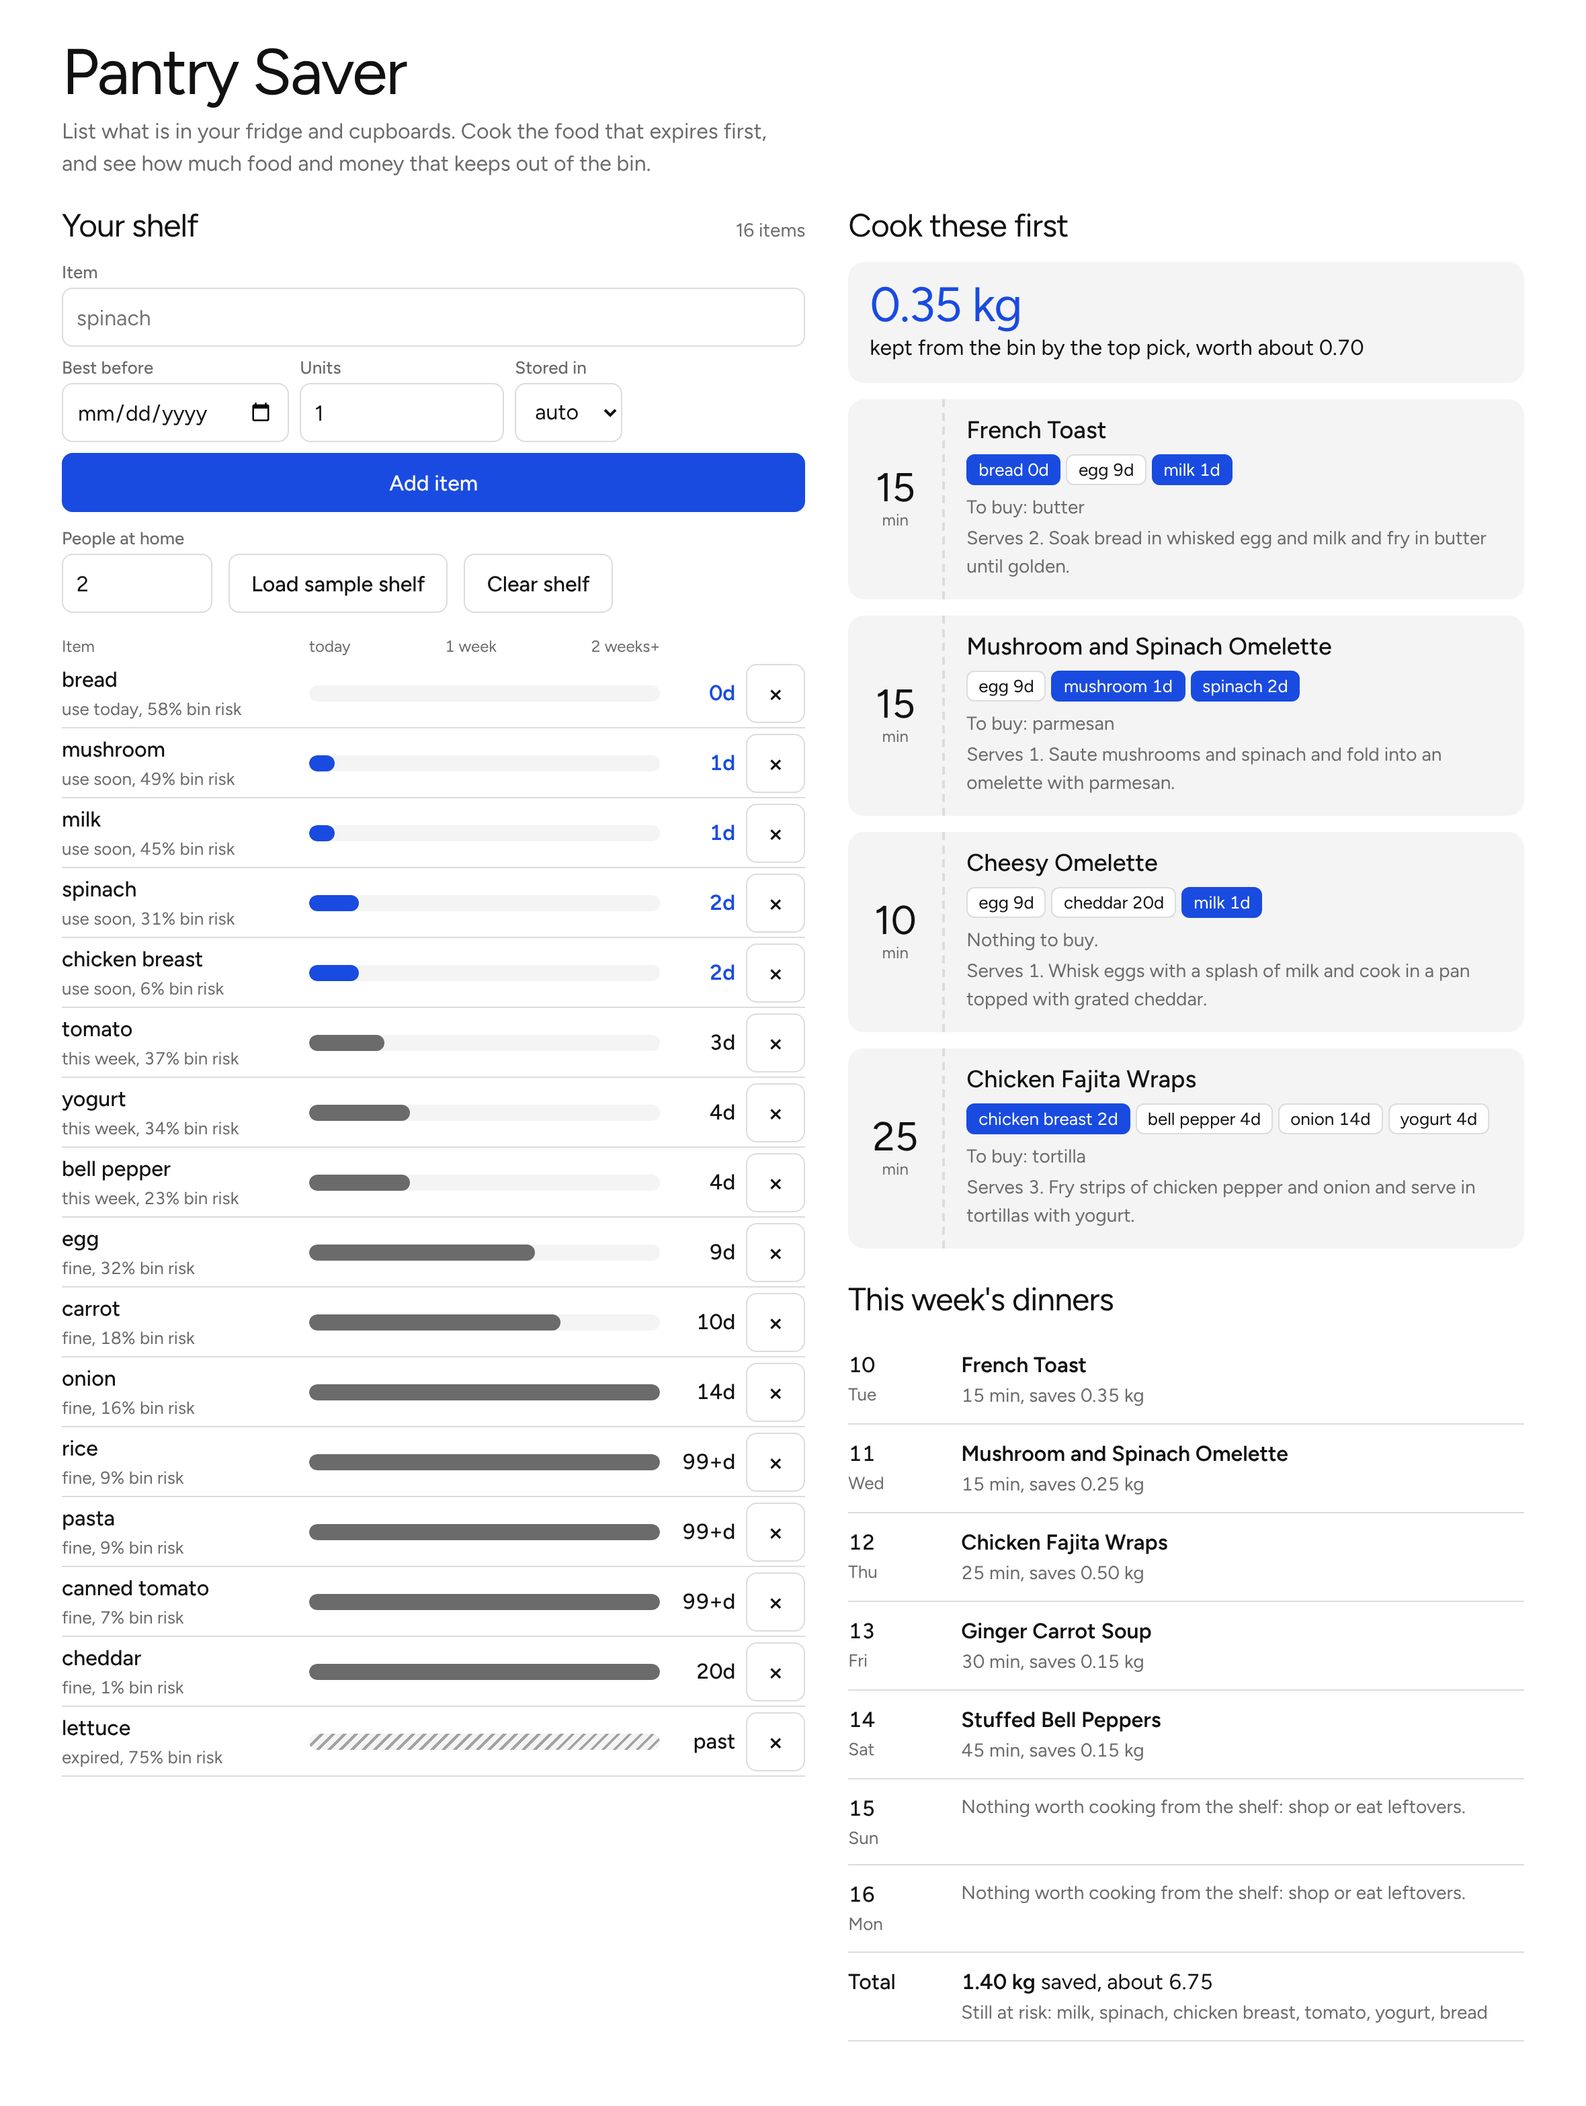
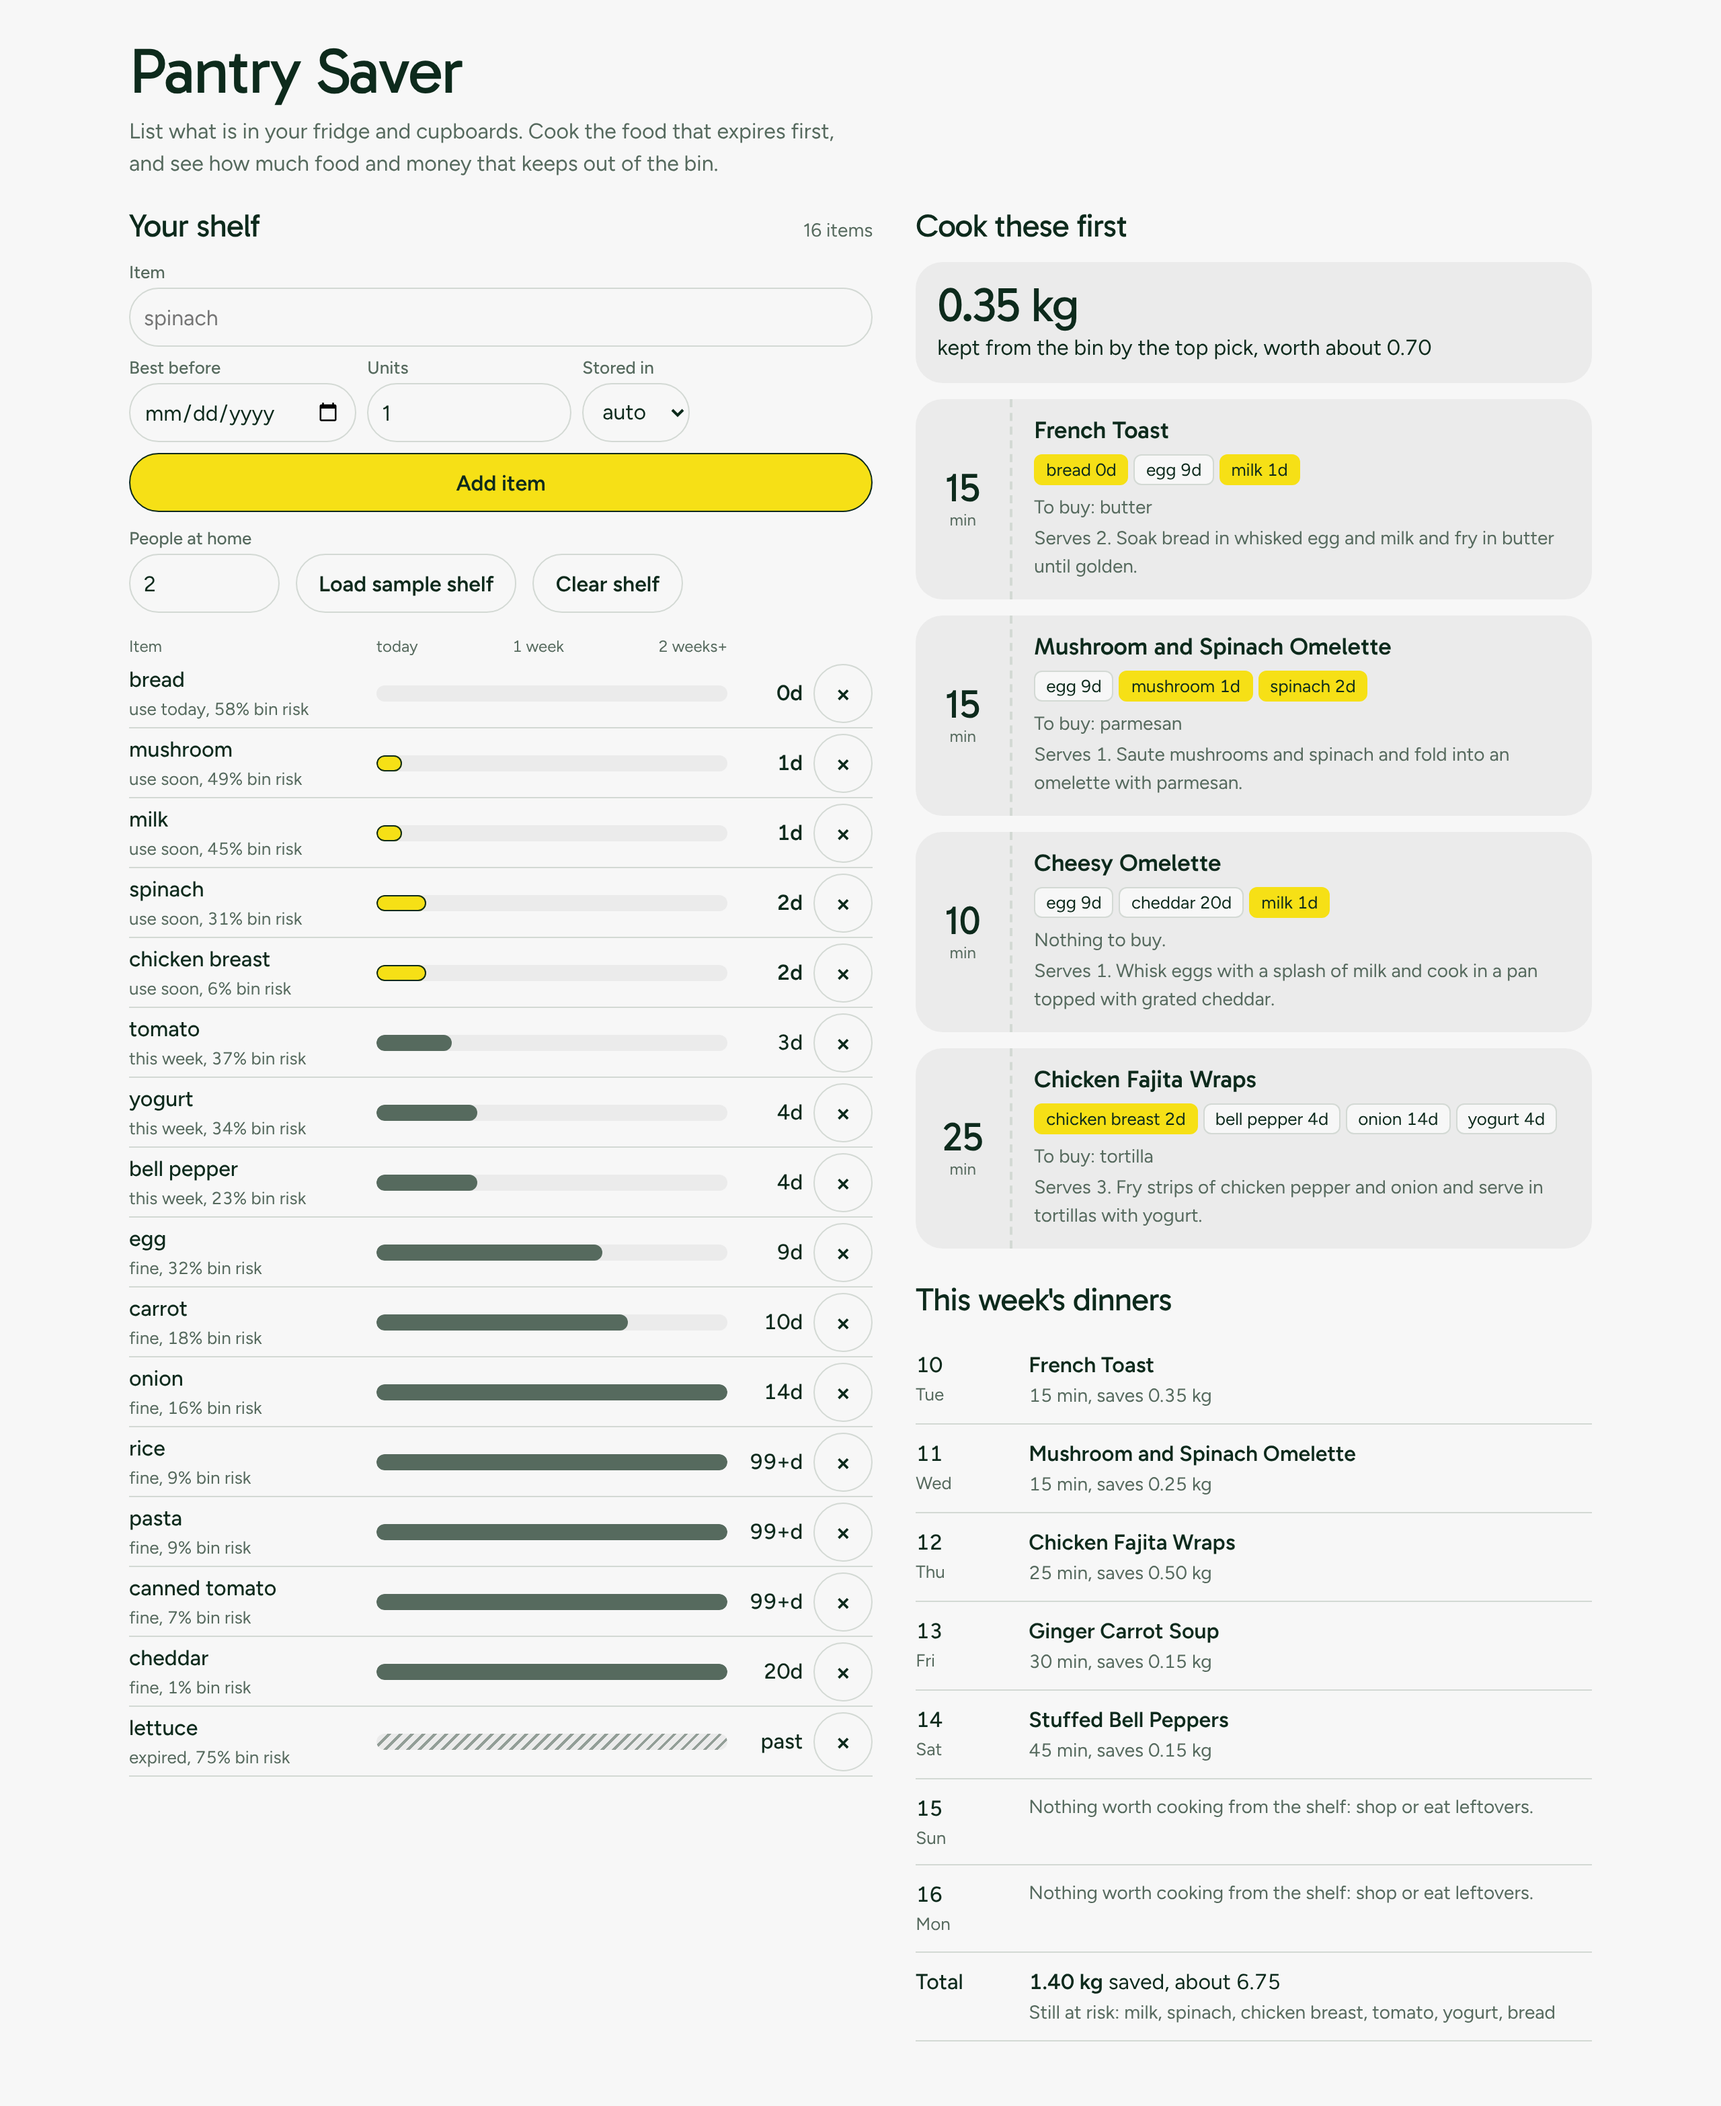
Recolor pantry-saver UI: bottle-green and yellow palette, Gabarito type, round shapes
Claude-Session: https://claude.ai/code/session_0162F6eeS2UuxoD82Lgwjb2t

diff --git a/static/index.html b/static/index.html
@@ -6,26 +6,26 @@
 <title>Pantry Saver</title>
 <link rel="preconnect" href="https://fonts.googleapis.com">
 <link rel="preconnect" href="https://fonts.gstatic.com" crossorigin>
-<link href="https://fonts.googleapis.com/css2?family=Figtree:wght@400..600&display=swap" rel="stylesheet">
+<link href="https://fonts.googleapis.com/css2?family=Figtree:wght@400..600&family=Gabarito:wght@400..700&display=swap" rel="stylesheet">
 <style>
-  /* Tokens dealt by taste-skill: palette white-link-blue, type figtree (light); the inverse set is the dark theme. */
+  /* Tokens dealt by taste-skill: palette offwhite-bottle-yellow, type gabarito (display) + figtree (text), round radius. Yellow is a fill; --p-accent-text carries accent colour in text. */
   :root {
-    --p-bg: #ffffff; --p-surface: #f4f4f4; --p-ink: #111111; --p-muted: #6b6b6b;
-    --p-accent: #1a4be0; --p-accent-ink: #ffffff; --p-rule: #dcdcdc;
-    --font-display: "Figtree", system-ui, sans-serif;
+    --p-bg: #f7f7f7; --p-surface: #ebebeb; --p-ink: #0d2a1c; --p-muted: #566a5e;
+    --p-accent: #f6e016; --p-accent-ink: #0d2a1c; --p-accent-text: #0d2a1c; --p-rule: #d3d9d4;
+    --font-display: "Gabarito", "Figtree", system-ui, sans-serif;
     --font-text: "Figtree", system-ui, sans-serif;
-    --r-ctl: 8px; --r-card: 12px;
+    --r-ctl: 999px; --r-card: 20px;
   }
   @media (prefers-color-scheme: dark) {
     :root {
-      --p-bg: #111111; --p-surface: #1e1e1e; --p-ink: #ffffff; --p-muted: #9a9a9a;
-      --p-accent: #7f9bff; --p-accent-ink: #111111; --p-rule: #333333;
+      --p-bg: #0c1a12; --p-surface: #14261b; --p-ink: #f2f5f0; --p-muted: #9bb0a2;
+      --p-accent: #f6e016; --p-accent-ink: #0d2a1c; --p-accent-text: #f6e016; --p-rule: #284232;
     }
   }
   * { box-sizing: border-box; }
   html { -webkit-text-size-adjust: 100%; }
   body { margin: 0; background: var(--p-bg); color: var(--p-ink); font: 400 16px/1.5 var(--font-text); font-variant-numeric: tabular-nums; }
-  :focus-visible { outline: 3px solid var(--p-accent); outline-offset: 2px; }
+  :focus-visible { outline: 3px solid var(--p-accent-text); outline-offset: 2px; }
   .wrap { max-width: 1120px; margin: 0 auto; padding: 0 16px; }
 
   header { padding: 28px 0 20px; animation: enter 900ms ease-out both; }
@@ -45,7 +45,7 @@
   @media (max-width: 560px) { form { grid-template-columns: minmax(0, 1fr) minmax(0, 1fr); } }
   label { display: block; font: 500 13px var(--font-text); color: var(--p-muted); }
   input, select { width: 100%; min-height: 44px; font: 400 16px var(--font-text); color: var(--p-ink); background: var(--p-bg); border: 1px solid var(--p-rule); border-radius: var(--r-ctl); padding: 8px 10px; margin-top: 4px; }
-  button { min-height: 44px; font: 500 16px var(--font-text); color: var(--p-accent-ink); background: var(--p-accent); border: 1px solid var(--p-accent); border-radius: var(--r-ctl); padding: 8px 16px; cursor: pointer;
+  button { min-height: 44px; font: 600 16px var(--font-text); color: var(--p-accent-ink); background: var(--p-accent); border: 1px solid var(--p-ink); border-radius: var(--r-ctl); padding: 8px 16px; cursor: pointer;
     transition: filter 130ms ease-out, transform 130ms ease-out; }
   button:hover { filter: brightness(1.12); }
   button:active { transform: translateY(1px); filter: brightness(.92); }
@@ -61,17 +61,17 @@
   .nm i { display: block; font-style: normal; font-size: 13px; font-weight: 400; color: var(--p-muted); }
   .track { position: relative; height: 12px; border-radius: 6px; background: var(--p-surface); overflow: hidden; }
   .bar { position: absolute; left: 0; top: 0; bottom: 0; background: var(--p-muted); border-radius: 6px; }
-  .soon .bar { background: var(--p-accent); }
+  .soon .bar { background: var(--p-accent); outline: 1px solid var(--p-ink); outline-offset: -1px; }
   .expired .bar { width: 100% !important; background: repeating-linear-gradient(135deg, var(--p-muted) 0 2px, transparent 2px 6px); opacity: .6; }
   .days { font-weight: 500; text-align: right; }
-  .soon .days { color: var(--p-accent); font-weight: 600; }
+  .soon .days { color: var(--p-accent-text); font-weight: 600; }
   .rm { padding: 0; width: 44px; font-size: 20px; line-height: 1; }
   .scale { display: grid; grid-template-columns: minmax(6rem, 11rem) minmax(0, 1fr) 3rem 44px; gap: 8px; font-size: 12px; color: var(--p-muted); }
   .scale div:nth-child(2) { display: flex; justify-content: space-between; }
   .empty { padding: 16px 0; color: var(--p-muted); }
 
   .saved { display: flex; flex-wrap: wrap; gap: 2px 16px; align-items: baseline; background: var(--p-surface); border-radius: var(--r-card); padding: 14px 16px; margin-bottom: 12px; }
-  .saved b { font: 400 36px/1 var(--font-display); color: var(--p-accent); letter-spacing: -0.02em; }
+  .saved b { font: 400 36px/1 var(--font-display); color: var(--p-accent-text); letter-spacing: -0.02em; }
 
   /* One card style for recipes: a minutes stub, a dashed tear line, then the details. */
   .card { display: grid; grid-template-columns: 4.5rem minmax(0, 1fr); background: var(--p-surface); border-radius: var(--r-card); margin-bottom: 12px; transition: transform 140ms ease-out; }
@@ -91,7 +91,7 @@
   .plan .d { font-weight: 500; }
   .plan .d small { display: block; font-weight: 400; font-size: 13px; color: var(--p-muted); }
   .plan .none, .plan .meta { color: var(--p-muted); font-size: 14px; }
-  #err { color: var(--p-accent); font-weight: 500; }
+  #err { color: var(--p-accent-text); font-weight: 500; }
   @media (prefers-reduced-motion: reduce) {
     header { animation: none; }
     .card, button { transition: none; }

diff --git a/README.md b/README.md
@@ -68,7 +68,7 @@ Everything is **synthetic or original**. `data/waste_events.csv` (6000 rows) is 
 - **Minimum plan score**: a day with nothing worthwhile is left open rather than padded with a recipe that needs a full shop.
 - **"Saved" only counts items with 3 days or fewer left**: using a carton with two weeks left does not prevent any waste.
 - **Model trained at build time**: the image starts instantly and is reproducible; the API also trains on first start if no artifact exists.
-- **Visual system dealt with taste-skill**: palette `white-link-blue`, type pair `figtree` (single family), soft radius; the dark theme is the palette's inverse set.
+- **Visual system dealt with taste-skill**: palette `offwhite-bottle-yellow` (bottle-green ink, yellow fills), type pair Gabarito + Figtree, round radius; yellow is only ever a fill, accent text uses the ink green (light) or yellow (dark) for contrast.
 - **Runway bars from real days left**: bar length is days left on a 0 to 14 day scale, so urgency is visible without reading a number.
 - **Plain static page, no build step**: one HTML file with inline CSS and JS, tokens at the top, `prefers-color-scheme` aware, `prefers-reduced-motion` respected.
 
